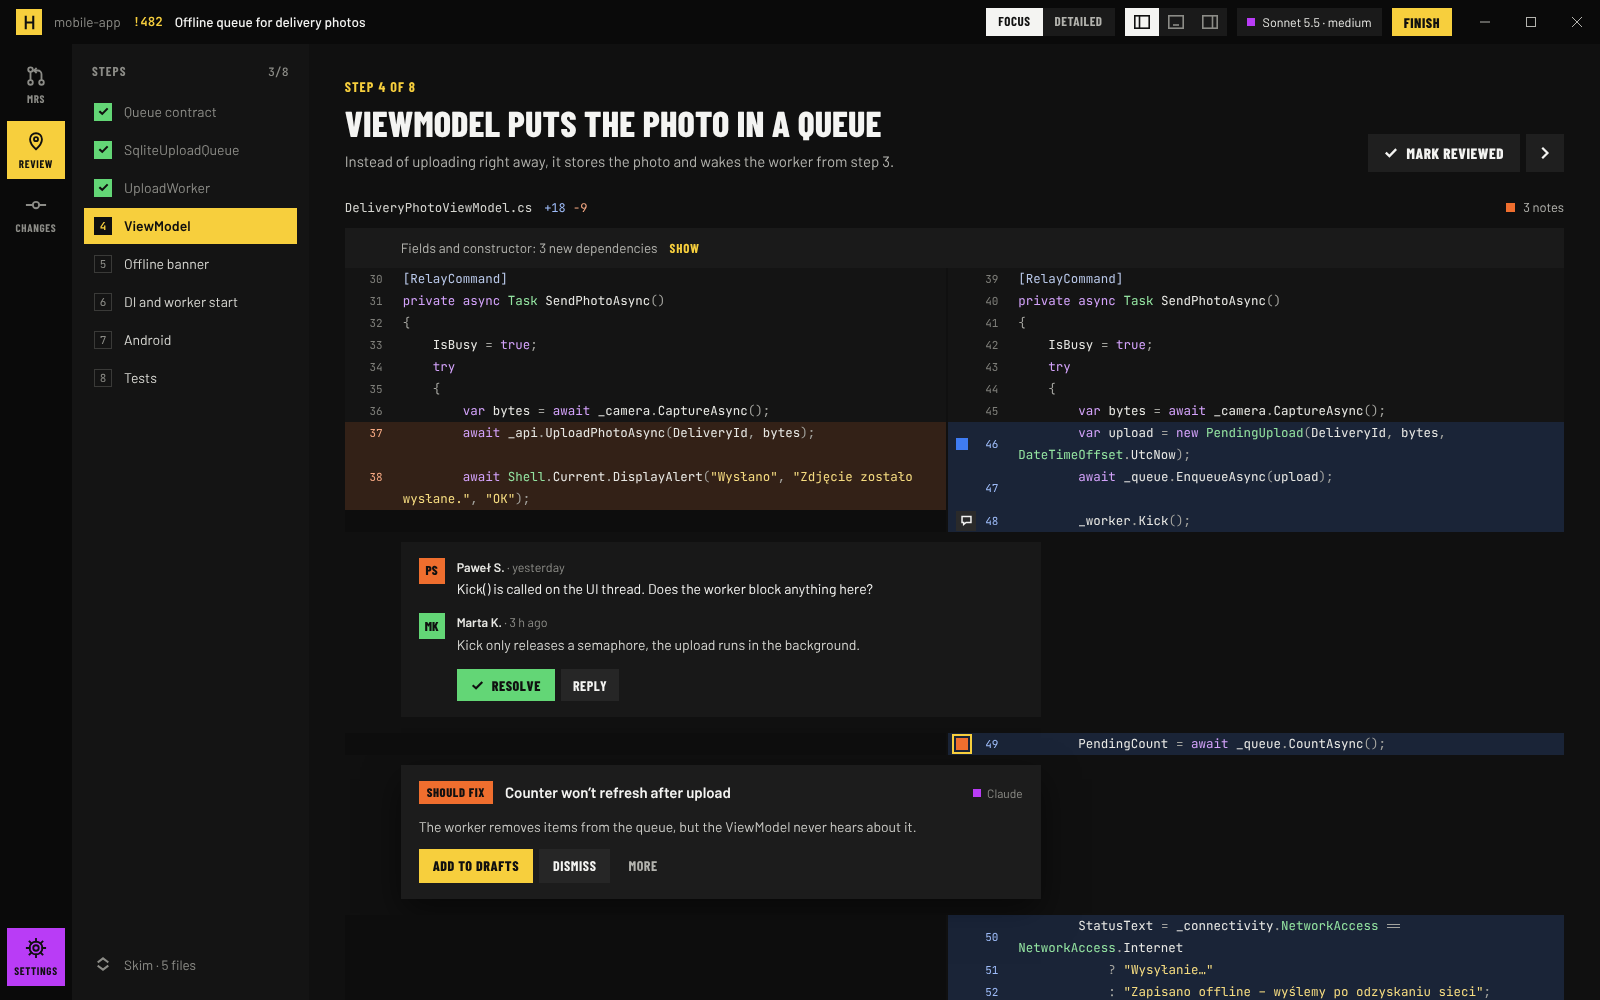
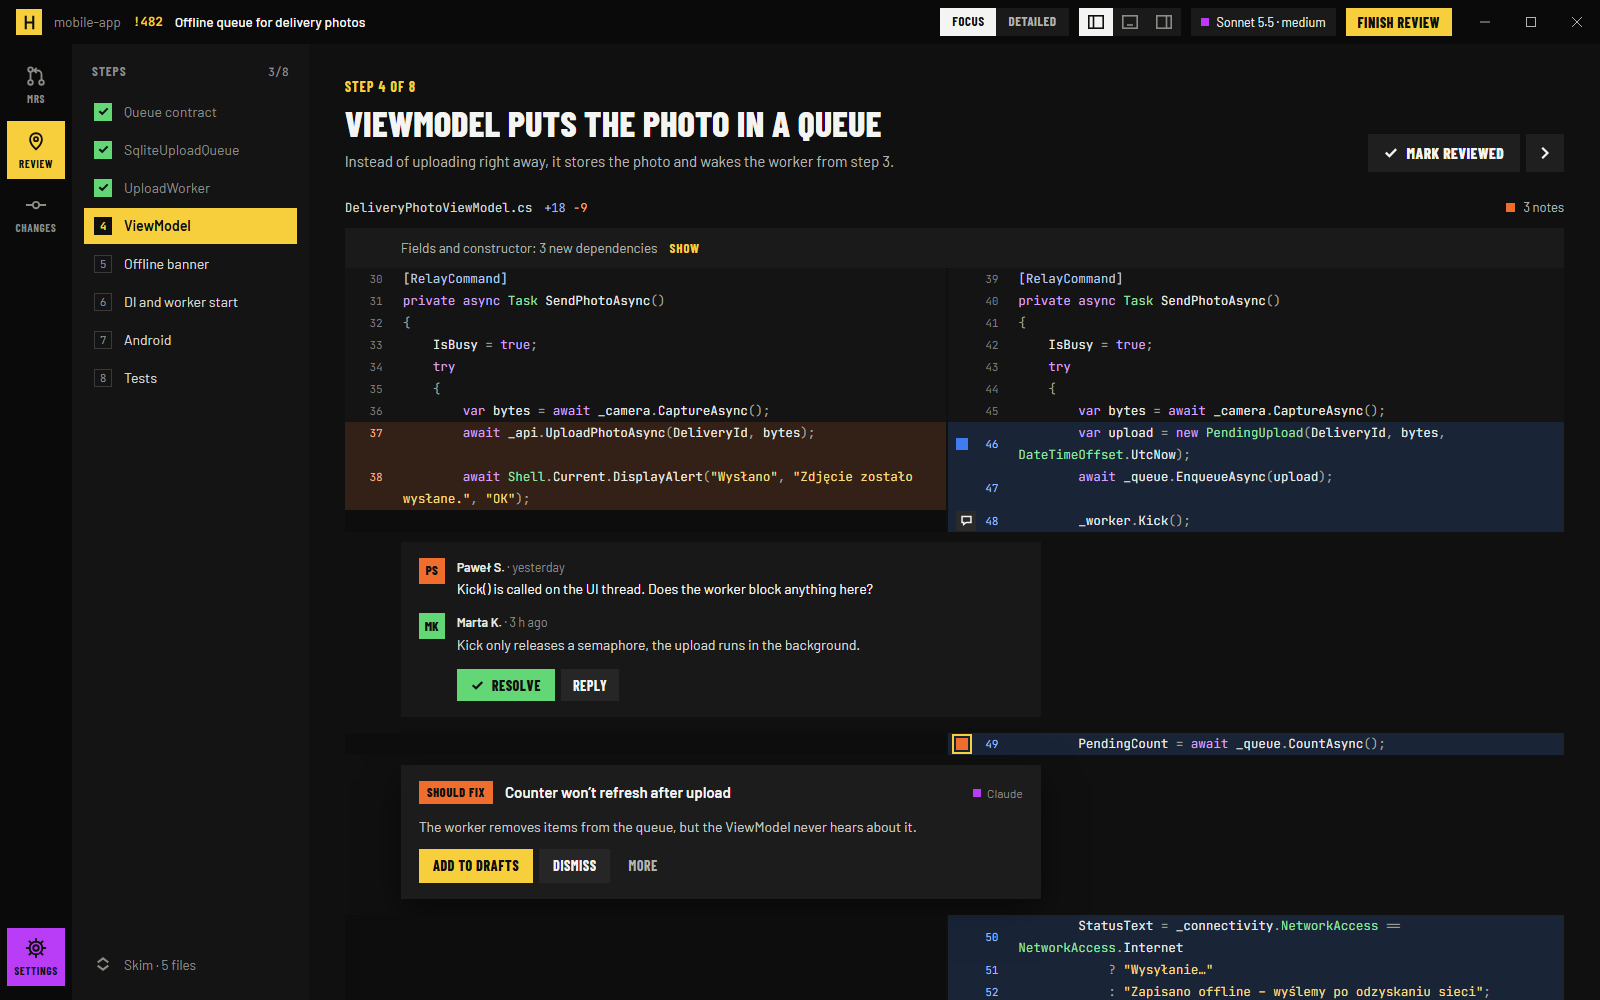
M0: re-render stale design PNGs
The 19 PNGs listed in docs/design/README.md › Pending re-renders, from the
mocks changed at kickoff (Finish review, model chips, Question tag blue,
fixup note and neutral copy, "Writes in" hint, full shortcut list,
moved-code text), rendered with tools/mock-preview at the README presets.
Only the intended changes differ; Barlow Condensed from @fontsource 5.3.0
renders a touch heavier than the earlier renders.

render-mock.mjs now deletes its temporary _<mock>.dc.html next to --out.

Versions: playwright 1.64.0 (Chromium), @fontsource/* 5.3.0.

diff --git a/docs/design/README.md b/docs/design/README.md
@@ -38,7 +38,7 @@ State keys are whatever the mock's `renderVals()` reads from `this.state`; open 
 
 ## Pending re-renders
 
-Kickoff (2026-10-10) changed copy and colors in these mocks; their PNGs are stale until re-rendered in M0 (once Playwright is installed). Until then the mock wins over the PNG.
+None pending. Kickoff (2026-10-10) changed copy and colors in these mocks; their PNGs were re-rendered in M0 on 2026-10-11 with the presets above (Playwright 1.64.0, @fontsource 5.3.0, the fonts the app bundles). If a PNG and its mock ever disagree, the mock wins.
 
 | Mock | Change | PNGs to re-render |
 | - | - | - |
